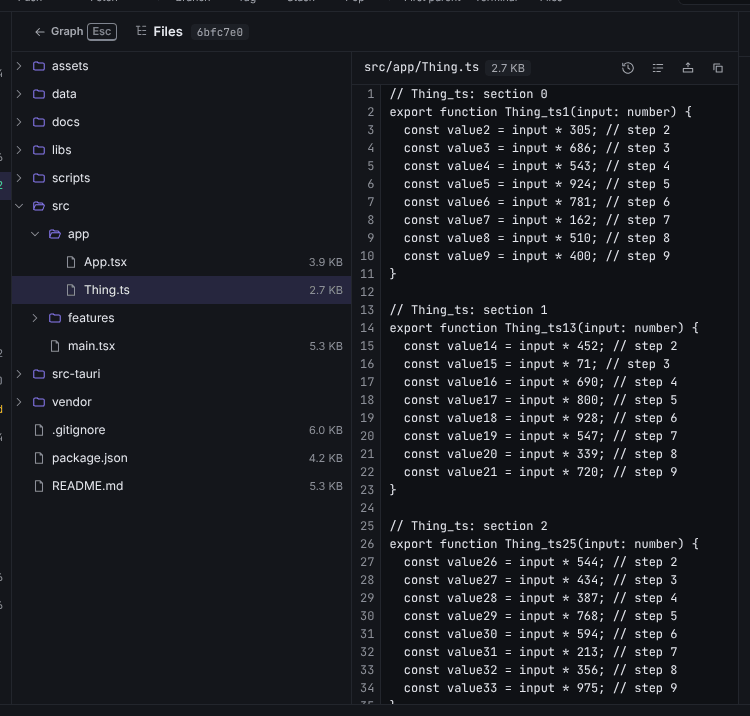
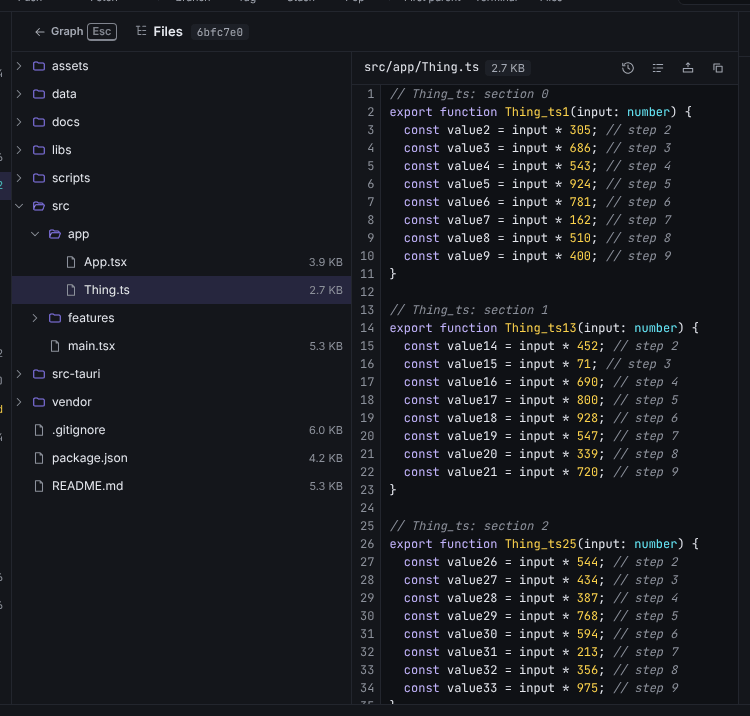
fix(theme): color syntax tokens in the file viewer and file editor
The shared highlighter of features/diff/editor.ts puts `tok-*` classes on the code, but
their colors were only defined in CodeDiff.module.css and MergeEditor.module.css, so the
files of "Browse files at this commit" and the diff's file editor stayed in the text
color. The rules now live once in the global stylesheet.

Claude-Session: https://claude.ai/code/session_01PytqWFDP9LE1mGP6SrfhSZ

diff --git a/e2e/commit-tree.spec.ts b/e2e/commit-tree.spec.ts
@@ -70,6 +70,25 @@ for (const { name: theme, colorScheme } of THEMES) {
       await expect(graphRow(page, 0)).toBeVisible();
     });
 
+    test('highlights code by the language of the file', async ({ page }) => {
+      await openTree(page);
+      await item(page, 'src').click();
+      await item(page, 'main.tsx').click();
+      const file = treeView(page).getByRole('region', { name: 'Contents of src/main.tsx' });
+      const keyword = file.locator('.tok-keyword').first();
+      await expect(keyword).toBeVisible();
+      // Colored by the theme's syntax token, not left in the text color.
+      const colors = await keyword.evaluate((element) => {
+        const content = element.closest('.cm-content');
+        return {
+          token: getComputedStyle(element).color,
+          text: content ? getComputedStyle(content).color : '',
+        };
+      });
+      expect(colors.token).not.toBe(colors.text);
+      await capture(page, theme, 'highlighted');
+    });
+
     test('shows each kind of file', async ({ page }) => {
       await openTree(page);
       await item(page, 'assets').click();

diff --git a/src/features/conflicts/MergeEditor.module.css b/src/features/conflicts/MergeEditor.module.css
@@ -234,33 +234,3 @@
 .code :global(.yaggui-merge-unresolved[data-current='true']) {
   border-style: solid;
 }
-
-/* Token classes from the diff's highlighter, with the theme's syntax tokens. */
-.code :global(.tok-keyword) {
-  color: var(--syn-keyword);
-}
-
-.code :global(.tok-string) {
-  color: var(--syn-string);
-}
-
-.code :global(.tok-type) {
-  color: var(--syn-tag);
-}
-
-.code :global(.tok-function) {
-  color: var(--syn-function);
-}
-
-.code :global(.tok-comment) {
-  color: var(--fg-muted);
-  font-style: italic;
-}
-
-.code :global(.tok-strong) {
-  font-weight: var(--weight-semibold);
-}
-
-.code :global(.tok-invalid) {
-  color: var(--danger);
-}

diff --git a/src/theme/global.css b/src/theme/global.css
@@ -79,3 +79,34 @@ body[data-dragging] {
   outline-offset: -1px;
   background: var(--accent-soft);
 }
+
+/* Syntax token classes of the shared highlighter (features/diff/editor.ts): diff, merge editor,
+   file editor and file viewer. */
+.tok-keyword {
+  color: var(--syn-keyword);
+}
+
+.tok-string {
+  color: var(--syn-string);
+}
+
+.tok-type {
+  color: var(--syn-tag);
+}
+
+.tok-function {
+  color: var(--syn-function);
+}
+
+.tok-comment {
+  color: var(--fg-muted);
+  font-style: italic;
+}
+
+.tok-strong {
+  font-weight: var(--weight-semibold);
+}
+
+.tok-invalid {
+  color: var(--danger);
+}

diff --git a/src/features/diff/CodeDiff.module.css b/src/features/diff/CodeDiff.module.css
@@ -324,33 +324,3 @@
   min-width: 0;
   min-height: 0;
 }
-
-/* Syntax: token classes of the highlighter in editor.ts. */
-.pane :global(.tok-keyword) {
-  color: var(--syn-keyword);
-}
-
-.pane :global(.tok-string) {
-  color: var(--syn-string);
-}
-
-.pane :global(.tok-type) {
-  color: var(--syn-tag);
-}
-
-.pane :global(.tok-function) {
-  color: var(--syn-function);
-}
-
-.pane :global(.tok-comment) {
-  color: var(--fg-muted);
-  font-style: italic;
-}
-
-.pane :global(.tok-strong) {
-  font-weight: var(--weight-semibold);
-}
-
-.pane :global(.tok-invalid) {
-  color: var(--danger);
-}

diff --git a/CHANGELOG.md b/CHANGELOG.md
@@ -34,6 +34,9 @@ The format follows [Keep a Changelog](https://keepachangelog.com/en/1.1.0/) and 
 
 ### Fixed
 
+- Files opened from "Browse files at this commit", and the file editor of the diff, now show their
+  syntax colors: the highlighting was computed but its colors were only defined for the diff and
+  the merge editor (#75).
 - Applying a single file from a stash that ends in a conflict is now reported as failed in the
   status bar; the undo stays available (#70).
 - Skipping during a bisect when only skipped commits are left now ends the bisect with an
